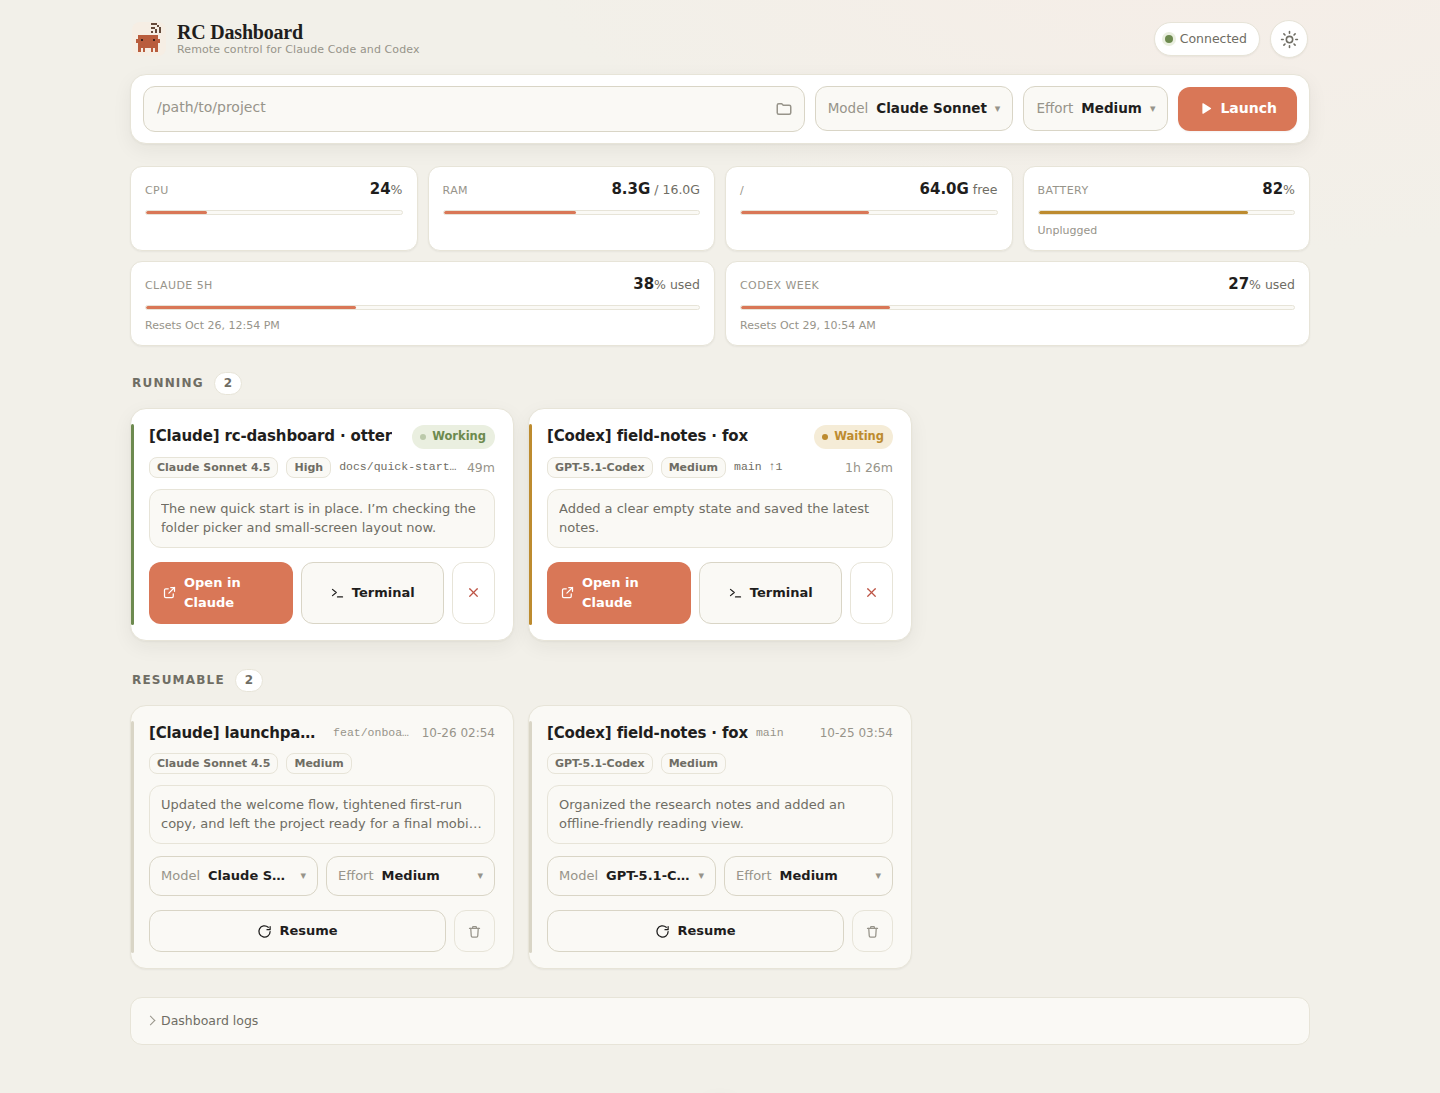
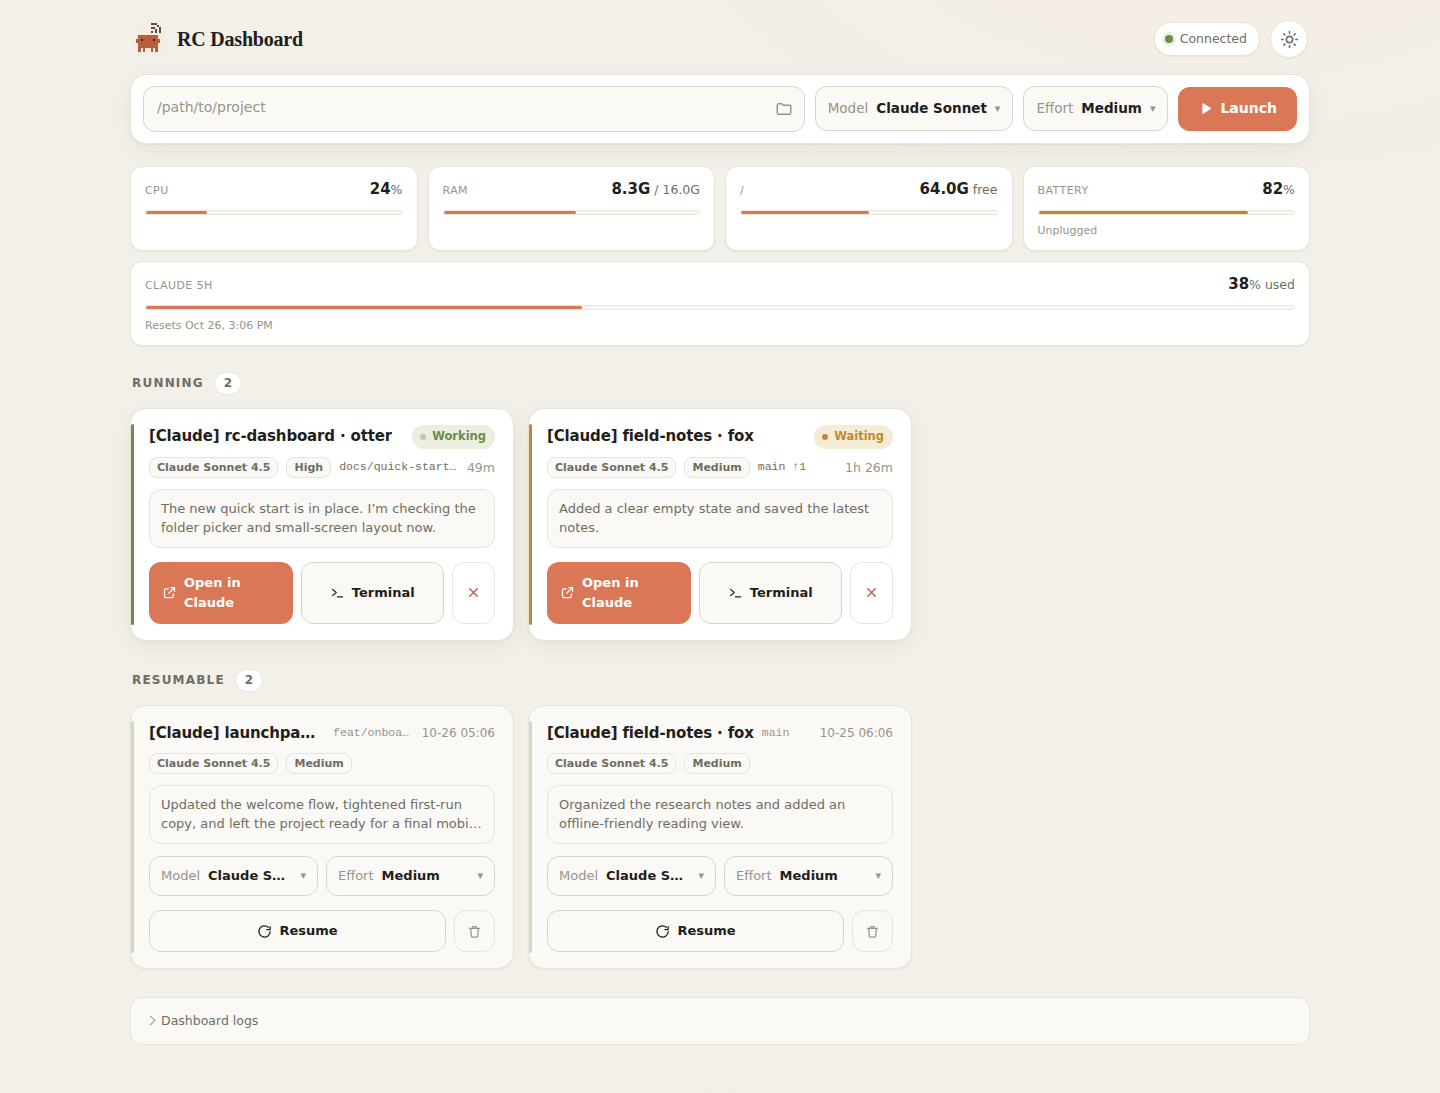
docs: refine README and screenshot samples

diff --git a/README.md b/README.md
@@ -5,7 +5,7 @@
 </p>
 
 <p align="center"><strong>Leave the terminal. Keep the thread.</strong></p>
-<p align="center">Remote control for Claude Code and Codex.</p>
+<p align="center">Remote control for Claude Code.</p>
 
 Start a coding session on the machine where your project lives. Check its progress from another connected screen. Open the live terminal when it needs you. Close the dashboard when you’re ready; the session keeps running.
 
@@ -13,11 +13,11 @@ Start a coding session on the machine where your project lives. Check its progre
 
 ## Start at your desk. Pick up anywhere you can connect.
 
-A coding task can keep moving while you switch projects, leave your desk, or take a break. RC Dashboard keeps Claude Code and Codex sessions together in one clear view, so you can check in without babysitting a terminal.
+A coding task can keep moving while you switch projects, leave your desk, or take a break. RC Dashboard keeps Claude Code sessions together in one clear view, so you can check in without babysitting a terminal.
 
 - **See what’s happening.** Scan active and resumable sessions, recent replies, model, host health, and live logs. Usage meters and conversation summaries appear when available.
 - **Step in when it matters.** Open a session’s real terminal, send the next instruction, or interrupt it. Close the terminal view and the session stays alive.
-- **Pick up where you left off.** Resume a previous Claude Code or Codex session, then carry on with its provider and project.
+- **Pick up where you left off.** Resume a previous Claude Code session, then carry on with its project.
 - **Use the screen that suits the moment.** Open the web dashboard, desktop app, or Android app.
 
 ## A look inside
@@ -25,7 +25,7 @@ A coding task can keep moving while you switch projects, leave your desk, or tak
 <table>
   <tr><th align="center">Desktop</th><th align="center">Phone</th></tr>
   <tr>
-    <td width="68%" valign="top"><img src="docs/screenshots/dashboard-desktop.png" alt="RC Dashboard desktop view with active and resumable Claude Code and Codex sessions" width="680" /></td>
+    <td width="68%" valign="top"><img src="docs/screenshots/dashboard-desktop.png" alt="RC Dashboard desktop view with active and resumable Claude Code sessions" width="680" /></td>
     <td width="32%" valign="top"><img src="docs/screenshots/dashboard-mobile.png" alt="RC Dashboard running sessions on a phone" width="280" /></td>
   </tr>
 </table>
@@ -43,7 +43,7 @@ A coding task can keep moving while you switch projects, leave your desk, or tak
 ## Quick start
 
 1. [Download the app for your platform](https://github.com/ptrkhh/claude-dashboard/releases/latest).
-2. On the machine where sessions will run, install tmux and Claude Code, Codex, or both.
+2. On the machine where sessions will run, install tmux and Claude Code.
 3. Open RC Dashboard. Linux and macOS desktop apps start the agent with the app. On Windows and Android, follow the one-time setup prompt for WSL or F-Droid Termux.
 4. Choose a project, launch a session, and come back to it when you need to.
 
@@ -83,7 +83,7 @@ The desktop wrapper can be started with:
 
     cargo run -p cdash-tauri
 
-The host needs tmux and the CLI you want to use. Codex discovery and summaries use Node.js 22 or later.
+The host needs tmux and Claude Code. Node.js 22 or later is needed for conversation summaries.
 
 ### Platform details
 
@@ -101,15 +101,11 @@ Sessions run in tmux. The Terminal button attaches to the session’s live CLI i
 
 The browser terminal sends input to the CLI, so anyone who can reach it can control that session. Terminal connections check the page origin, and session APIs use the configured authentication guards. The log records terminal open and close events, not typed input.
 
-### Claude Code and Codex
+### Claude Code sessions
 
-Both providers have separate launch and resume options. Codex model and effort choices come from the installed Codex CLI. Native Codex terminal support requires Codex CLI 0.162.1 or later. Codex model discovery and conversation summaries require Node.js 22 or later.
-
-Usage meters are shown when the provider account supports them. Claude usage comes from the same OAuth endpoint used by the CLI; it is undocumented and may change. Codex quota data comes from its account rate-limit endpoint. Missing credentials or unsupported providers hide the related meters without blocking session controls.
+Launch or resume Claude Code sessions from the dashboard. Model and effort choices come from the installed Claude Code CLI. When the Claude account supports usage lookup, meters use the same undocumented OAuth endpoint as the CLI; that endpoint may change. Missing credentials hide usage meters without blocking session controls.
 
 Resumable cards can show conversation summaries. The agent reuses a suitable existing summary or generates one with the available supported subscription login. Summaries can omit or misstate details; the original session remains the source of truth. The selected conversation text is sent to the provider for summary generation. Tool payloads and thinking are omitted.
-
-Managed Codex sessions can also connect to Claude Remote Control. That bridge supports text prompts, completed replies, interruption, and command or file approval requests. Images, Codex interactive questions, and MCP elicitation are unsupported. See [CLAUDE_FINDINGS.md](CLAUDE_FINDINGS.md) for protocol notes.
 
 ### Access and security settings
 
